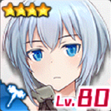
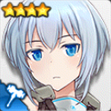
UPDATE chara data
・アナザー ニーナの画像を更新
・新キャラ 宮南 ひかりを追加
・新キャラ 我龍 絵美を追加

diff --git a/alice.html b/alice.html
@@ -12,7 +12,7 @@
   <script>
 
 /* 更新情報 必要に応じて書き換えてください */
-  var version = "Ver 1.1.4 | UPDATE:2020/12/28";
+  var version = "Ver 1.1.4 | UPDATE:2021/01/22";
 
 /*
   jsonファイルを外部に設置すると単にHTMLファイルを開いたときに動作しなくなるので当面はHTMLファイル内に
@@ -857,8 +857,8 @@
       "equip1": "2",
       "equip2": "4/4",
       "equip3": "2",
-      "equip4": "4/4?",
-      "sp": "45?",
+      "equip4": "45/45",
+      "sp": "245?",
       "attr": "4",
       "link": "https://wikiwiki.jp/alicegear/%E3%83%8B%E3%83%BC%E3%83%8A%E3%83%BB%E3%82%AB%E3%83%AA%E3%83%BC%E3%83%8B%E3%83%8A%E7%A0%B4%E8%BB%8D",
       "category": "10"
@@ -1141,6 +1141,34 @@
       "sp": "34?",
       "attr": "4",
       "link": "https://wikiwiki.jp/alicegear/%E5%A4%A9%E7%8B%90%E5%A4%A9",
+      "category": ""
+    },
+    {
+      "id": "50",
+      "type": "2",
+      "src": "normal-hikari.png",
+      "name": "宮南 ひかり",
+      "equip1": "?",
+      "equip2": "4",
+      "equip3": "?",
+      "equip4": "?",
+      "sp": "2?",
+      "attr": "3",
+      "link": "https://wikiwiki.jp/alicegear/%E5%AE%AE%E5%8D%97%E3%81%B2%E3%81%8B%E3%82%8A",
+      "category": ""
+    },
+    {
+      "id": "51",
+      "type": "2",
+      "src": "normal-garyu.png",
+      "name": "我龍 絵美",
+      "equip1": "1",
+      "equip2": "3",
+      "equip3": "?",
+      "equip4": "?",
+      "sp": "2?",
+      "attr": "2",
+      "link": "https://wikiwiki.jp/alicegear/%E6%88%91%E9%BE%8D%E7%B5%B5%E7%BE%8E",
       "category": ""
     },
     {
